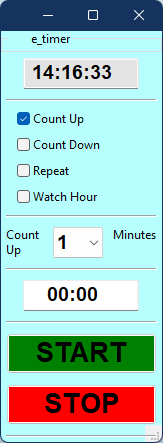
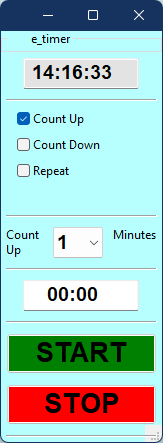
Edit manual
Remove watch hours.
Remove _T( ) macro.

Changed region(s): [[0.2147, 0.4108, 0.6135, 0.4695], [0.092, 0.4108, 0.184, 0.4695]]

diff --git a/src/e_timer_pi.cpp b/src/e_timer_pi.cpp
@@ -66,7 +66,7 @@ e_timer_pi::e_timer_pi(void *ppimgr) : opencpn_plugin_118(ppimgr) {
 
   tmp_path = GetPluginDataDir("e_timer_pi");
   fn.SetPath(tmp_path);
-  fn.AppendDir(_T("data"));
+  fn.AppendDir("data");
   fn.SetFullName("e_timer_pi_panel_icon.png");
 
   wxString shareLocn = fn.GetFullPath();
@@ -75,7 +75,7 @@ e_timer_pi::e_timer_pi(void *ppimgr) : opencpn_plugin_118(ppimgr) {
   if (panelIcon.IsOk())
     m_panelBitmap = wxBitmap(panelIcon);
   else
-    wxLogMessage(_T("    e_timer_pi panel icon NOT loaded"));
+    wxLogMessage("e_timer_pi panel icon NOT loaded");
   m_bShowTimer = false;
 }
 
@@ -85,7 +85,7 @@ e_timer_pi::~e_timer_pi(void) {
 }
 
 int e_timer_pi::Init(void) {
-  AddLocaleCatalog(_T("opencpn-e_timer_pi"));
+  AddLocaleCatalog("opencpn-e_timer_pi");
 
   // Set some default private member parameters
   m_route_dialog_x = 0;
@@ -107,11 +107,11 @@ int e_timer_pi::Init(void) {
 
 #ifdef ocpnUSE_SVG
     m_leftclick_tool_id = InsertPlugInToolSVG(
-        _T("Timer"), _svg_timer, _svg_timer, _svg_timer_toggled, wxITEM_CHECK,
-        _("Timer"), _T(""), NULL, CALCULATOR_TOOL_POSITION, 0, this);
+        "Timer", _svg_timer, _svg_timer, _svg_timer_toggled, wxITEM_CHECK,
+        "Timer", "", NULL, CALCULATOR_TOOL_POSITION, 0, this);
 #else
     m_leftclick_tool_id = InsertPlugInTool(
-        _T(""), _img_Timer, _img_Timer, wxITEM_CHECK, _("Timer"), _T(""), NULL,
+        "", _img_Timer, _img_Timer, wxITEM_CHECK, "Timer"), "", NULL,
         CALCULATOR_TOOL_POSITION, 0, this);
 #endif
 
@@ -215,11 +215,11 @@ bool e_timer_pi::LoadConfig(void) {
   wxFileConfig *pConf = (wxFileConfig *)m_pconfig;
 
   if (pConf) {
-    pConf->SetPath(_T( "/Settings/e_timer_pi" ));
-    pConf->Read(_T( "ShowTimerIcon" ), &m_bTimerShowIcon, 1);
+    pConf->SetPath("/Settings/e_timer_pi");
+    pConf->Read("ShowTimerIcon", &m_bTimerShowIcon, 1);
 
-    m_route_dialog_x = pConf->Read(_T ( "DialogPosX" ), 20L);
-    m_route_dialog_y = pConf->Read(_T ( "DialogPosY" ), 20L);
+    m_route_dialog_x = pConf->Read("DialogPosX", 20L);
+    m_route_dialog_y = pConf->Read("DialogPosY", 20L);
 
     if ((m_route_dialog_x < 0) || (m_route_dialog_x > m_display_width))
       m_route_dialog_x = 5;
@@ -234,11 +234,11 @@ bool e_timer_pi::SaveConfig(void) {
   wxFileConfig *pConf = (wxFileConfig *)m_pconfig;
 
   if (pConf) {
-    pConf->SetPath(_T ( "/Settings/e_timer_pi" ));
-    pConf->Write(_T ( "ShowTimerIcon" ), m_bTimerShowIcon);
+    pConf->SetPath("/Settings/e_timer_pi");
+    pConf->Write("ShowTimerIcon", m_bTimerShowIcon);
 
-    pConf->Write(_T ( "DialogPosX" ), m_route_dialog_x);
-    pConf->Write(_T ( "DialogPosY" ), m_route_dialog_y);
+    pConf->Write("DialogPosX", m_route_dialog_x);
+    pConf->Write("DialogPosY", m_route_dialog_y);
 
     return true;
   } else

diff --git a/src/e_timergui_impl.cpp b/src/e_timergui_impl.cpp
@@ -76,7 +76,7 @@ Dlg::Dlg(wxWindow* parent, e_timer_pi* ppi) : m_Dialog(parent) {
   wxString sound_dir = GetPluginDataDir(pName) + s + "data" + s;
 
   // Set reasonable defaults
-  sound_dir.Append(_T("sounds"));
+  sound_dir.Append("sounds");
   sound_dir.Append(wxFileName::GetPathSeparator());
 
   //create sound file
@@ -323,7 +323,7 @@ void Dlg::Notify2() { UpdateClock(); }
 
 void Dlg::UpdateClock() {
   wxDateTime dt = wxDateTime::Now();
-  wxString s = dt.Format(_T("%H:%M:%S"));
+  wxString s = dt.Format("%H:%M:%S");
   m_ClockTime->SetLabel(s);
 }
 

diff --git a/src/icons.cpp b/src/icons.cpp
@@ -33,11 +33,11 @@ void initialize_images(void)
 
 	tmp_path = GetPluginDataDir("e_timer_pi");
 	fn.SetPath(tmp_path);
-	fn.AppendDir(_T("data"));
+	fn.AppendDir("data");
 
-	fn.SetFullName(_T("e_timer_pi.svg"));
+	fn.SetFullName("e_timer_pi.svg");
 	_svg_timer = fn.GetFullPath();
-	fn.SetFullName(_T("e_timer_pi_toggled.svg"));
+	fn.SetFullName("e_timer_pi_toggled.svg");
 	_svg_timer_toggled = fn.GetFullPath();
 #endif
 	return;
